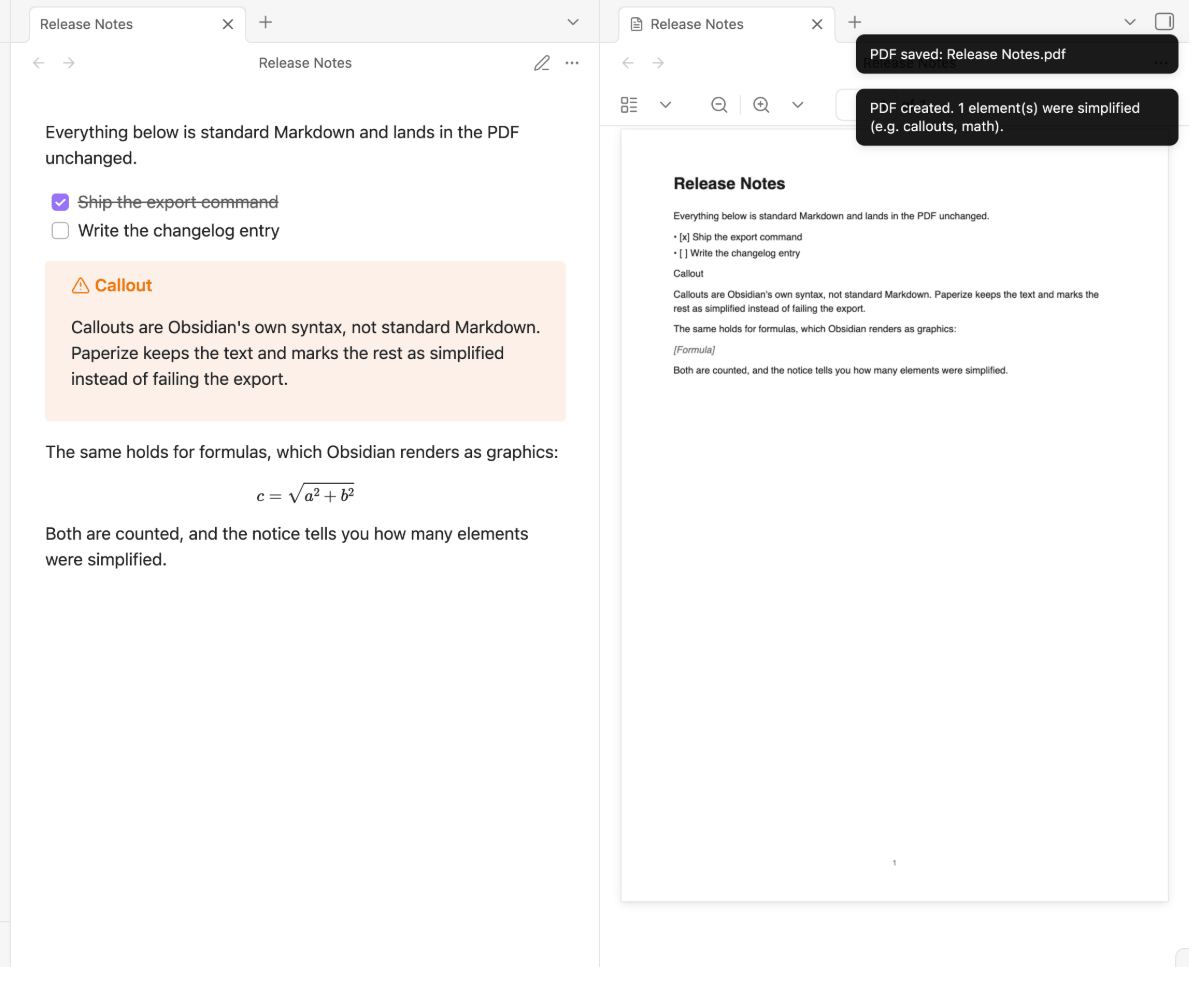
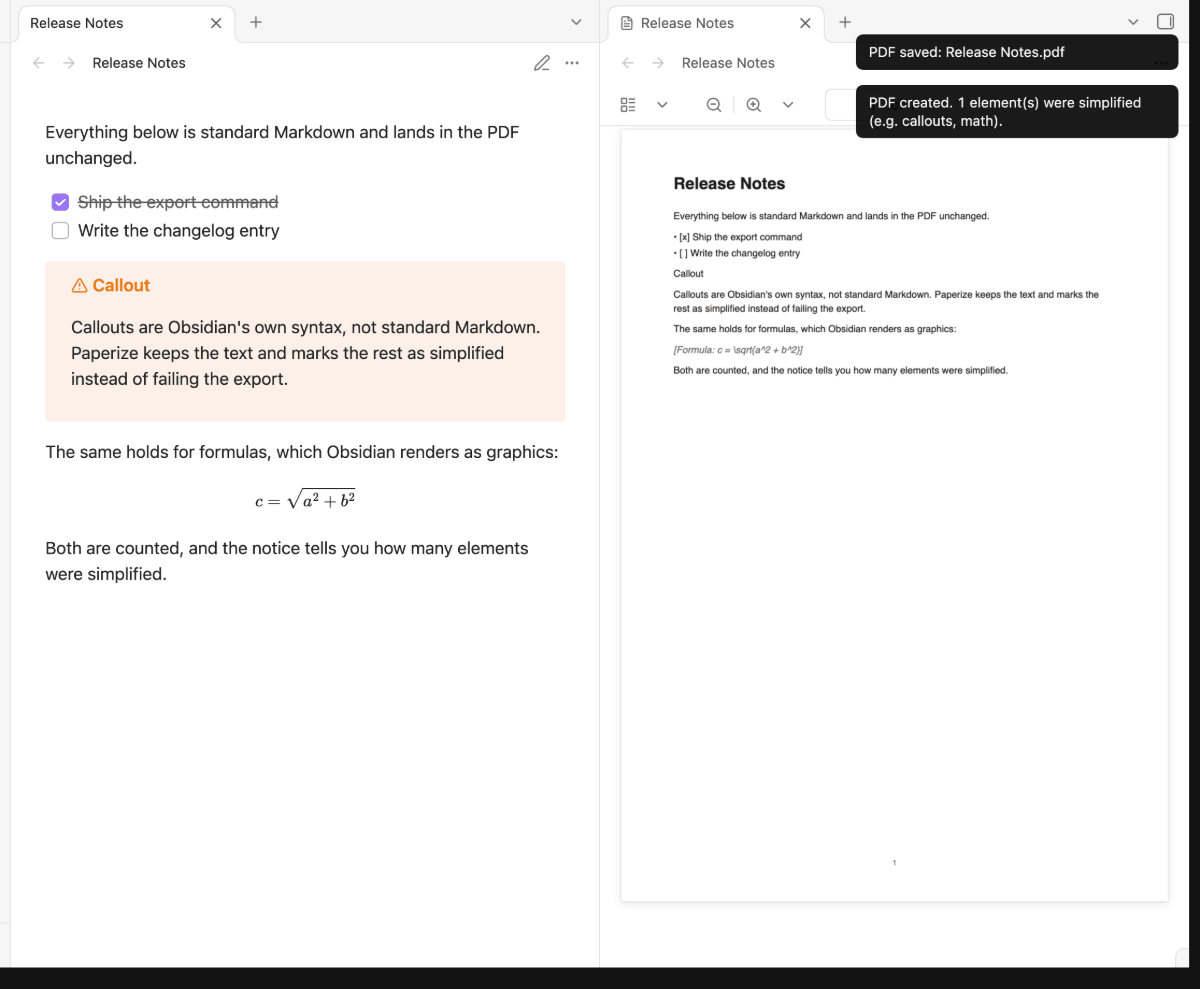
docs(images): degradation.png zeigt [Formula: …] mit Quelle und die Notice, Alt-Texte nachgezogen
shots.ts schaltet für dieses Motiv die Druck-Naht ab (Vektor-Weg: nur dort Platzhalter mit Zähler) und beantwortet die Ersetzen-Rückfrage; ohne beides zeigte die Aufnahme den Chromium-Weg, ohne Notice.

diff --git a/scripts/shots.ts b/scripts/shots.ts
@@ -114,6 +114,7 @@ const PDF_DEGRADATION = 'Release Notes.pdf';
 async function grundzustand(cdp: Cdp): Promise<void> {
   await cdp.evaluate(`
     const p = app.plugins.plugins[${JSON.stringify(PLUGIN_ID)}];
+    if (p.__druckOrig) { p.desktopPrint = p.__druckOrig; delete p.__druckOrig; }
     Object.assign(p.settings, { outputMode: "nextToNote", filenameTemplate: "{title}", customFolder: "" });
     await p.saveSettings();
     for (const f of app.vault.getFiles()) {
@@ -391,6 +392,10 @@ const SHOTS: Shot[] = [
     klasse: 'feature',
     async run(cdp) {
       await grundzustand(cdp);
+      // Dieses Bild zeigt den Vektor-Weg (iPhone, iPad, Rückfall): nur dort stehen Platzhalter mit Zähler. Am Desktop druckt Chromium die
+      // Formel und das Callout samt Rahmen, ohne Vereinfachung und ohne Notice. Die Druck-Naht abschalten, wie der GUI-Smoke es tut (Stand 0.6.1,
+      // 2026-11-12: ohne diese Zeile zeigte die Aufnahme den Chromium-Weg, ohne Notice).
+      await cdp.evaluate(`const p = app.plugins.plugins[${JSON.stringify(PLUGIN_ID)}]; p.__druckOrig = p.desktopPrint; p.desktopPrint = null; return true;`);
       if (!(await openExisting(cdp, NOTIZ_DEGRADATION, 'preview'))) return null;
       await closeExtraLeaves(cdp);
       if (!(await exportieren(cdp, PDF_DEGRADATION))) return null;
@@ -406,6 +411,13 @@ const SHOTS: Shot[] = [
         app.commands.executeCommandById(${JSON.stringify(`${PLUGIN_ID}:export-pdf`)});
         return true;
       `);
+      // Mit dem Schema {title} fragt das Plugin vor dem Ersetzen (seit Welle 22): wie ein Nutzer ersetzen, danach erscheint die Notice.
+      await pollUntil<boolean>(
+        cdp,
+        `const k = [...document.querySelectorAll(".modal-container .modal-button-container button")]; if (!k.length) return null; k[k.length - 1].click(); return true;`,
+        5_000,
+        150,
+      );
       const notice = await pollUntil<string>(
         cdp,
         'const t = [...document.querySelectorAll(".notice")].map((n) => n.textContent.trim()).filter((t) => /simplified|vereinfacht/i.test(t)).join(" | "); return t || null;',

diff --git a/README.md b/README.md
@@ -34,7 +34,7 @@ iPhone and iPad it is a plain vector PDF.
   and the like become plain text, a formula becomes a marker with its LaTeX source. A single summary notice tells you how many elements were simplified so you can
   check the source note if it matters.
 
-<img src="https://raw.githubusercontent.com/johannes-kaindl/obsidian-paperize/main/docs/images/degradation.png" alt="A note with a callout and a formula on the left, the exported PDF on the right showing the callout text and a [Formula] placeholder, with the notice reporting that one element was simplified" width="600">
+<img src="https://raw.githubusercontent.com/johannes-kaindl/obsidian-paperize/main/docs/images/degradation.png" alt="A note with a callout and a formula on the left, the exported PDF on the right showing the callout text and the formula marked as [Formula: c = \sqrt{a^2 + b^2}] with its LaTeX source, with the notice reporting that one element was simplified" width="600">
 
 - **Four output destinations**, chosen in settings: next to the note (default), the
   Obsidian attachment folder, a custom folder, or share/open out of the vault (the

diff --git a/README.de.md b/README.de.md
@@ -216,7 +216,7 @@ markiert, etwa `[Formel: E = mc^2]`. Nach dem Export meldet eine Notice, wie
 viele Elemente auf diese Weise vereinfacht wurden, damit du weißt, wann sich ein
 Abgleich mit der Notiz lohnt.
 
-<img src="https://raw.githubusercontent.com/johannes-kaindl/obsidian-paperize/main/docs/images/degradation.png" alt="Links eine Notiz mit Callout und Formel, rechts das erzeugte PDF mit dem Callout-Text und einem Platzhalter für die Formel, dazu die Notice über ein vereinfachtes Element" width="600">
+<img src="https://raw.githubusercontent.com/johannes-kaindl/obsidian-paperize/main/docs/images/degradation.png" alt="Links eine Notiz mit Callout und Formel, rechts das erzeugte PDF mit dem Callout-Text und der Formel als Markierung [Formula: c = \sqrt{a^2 + b^2}] samt LaTeX-Quelle, dazu die Notice über ein vereinfachtes Element" width="600">
 
 ## Schriften & die Core-14-Grenze
 
